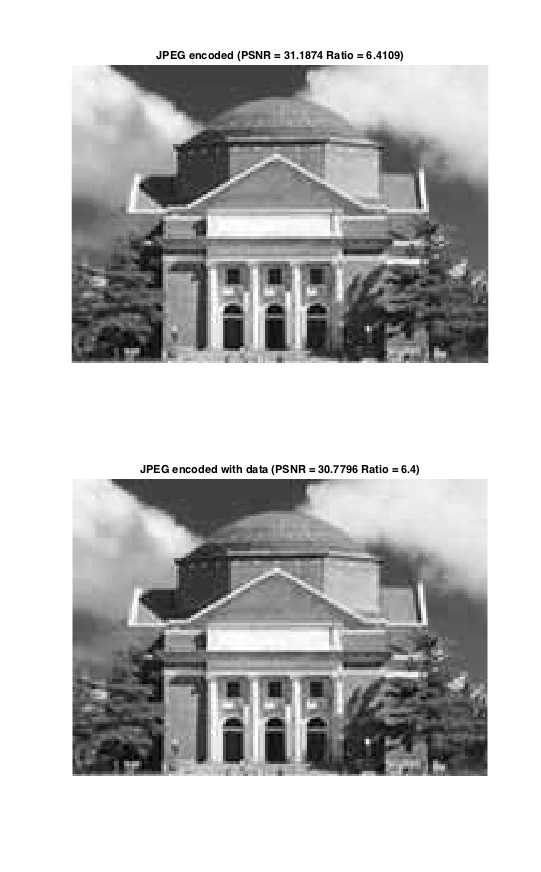
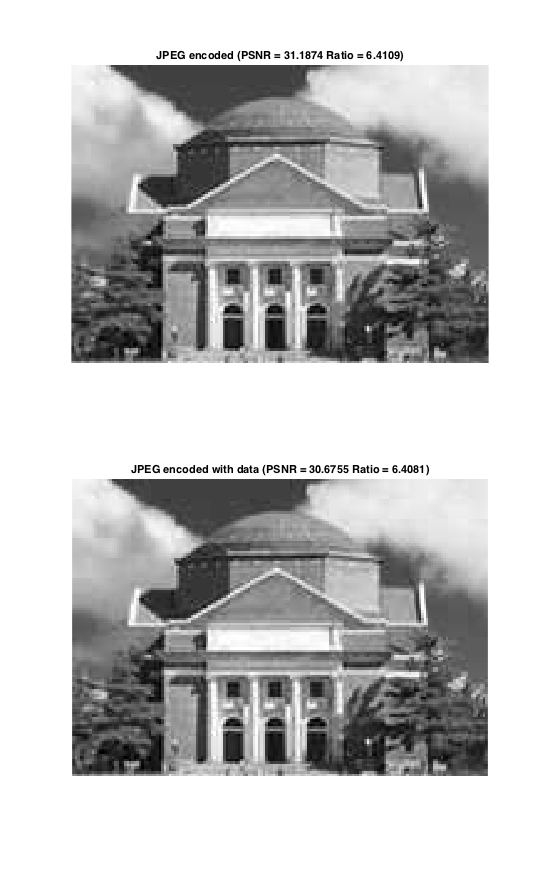
UPPER_BOUND: 6=>4

diff --git a/src/task3/inv_preprocess_large_dct_coeff.m b/src/task3/inv_preprocess_large_dct_coeff.m
@@ -1,8 +1,8 @@
 %% inv_preprocess_some_dct_coeff: Inverse the preprocess
 function [img, bits] = inv_preprocess_some_dct_coeff(pre_out, QTAB, ...
                                                      height, width)
-    UPPER_BOUND = 6;
-    LOWER_BOUND = -UPPER_BOUND + 1;
+    UPPER_BOUND = 4;
+    LOWER_BOUND = -UPPER_BOUND - 1;
 
     img = zeros(ceil([height width] / 8) * 8);
     bits = [];

diff --git a/src/task3/preprocess_large_dct_coeff.m b/src/task3/preprocess_large_dct_coeff.m
@@ -1,7 +1,7 @@
 %% preprocess_some_dct_coeff: Block splitting, DCT & quantization
 function out = preprocess_some_dct_coeff(img, bits, QTAB)
-    UPPER_BOUND = 6;
-    LOWER_BOUND = -UPPER_BOUND + 1;
+    UPPER_BOUND = 4;
+    LOWER_BOUND = -UPPER_BOUND - 1;
 
     img = double(img) - 128;  % convert to double for matrix ops later.
 

diff --git a/report/report.md b/report/report.md
@@ -1203,9 +1203,9 @@ index 242e3ea..327d96c 100644
 1. 设置一个正偶数上界 `UPPER_BOUND`；
 2. 用信息位替换掉这样的 DCT 系数：其大于等于 `UPPER_BOUND`，或小于等于 `-UPPER_BOUND + 1`。
 
-我们的设计思路是，对于那些已经较大的 DCT 系数，改变其最低位并不会造成太多视觉上的影响。
+我们的设计思路是，对于那些已经较大的 DCT 系数，改变其最低位并不会造成太多视觉上的影响。其中，上界选取为偶数，下界取为奇数是为了保证用信息位替换后，原本在范围内的点仍然处于范围内。
 
-其中，上界选取为偶数，下界取为奇数是为了保证用信息位替换后，原本在范围内的点仍然处于范围内。
+这里我们选取 `UPPER_BOUND = 4`，是因为经过试验，这个上界即能隐藏较多的信息，同时也能保证较好的图像质量。同时，由于 Category 3 是从 4 开始的，这样选取也能减少 Category 在隐藏之后增加的 DCT 系数的比例，从而避免了压缩率上的损失。
 
 具体代码与 3.2b 相比变化如下：
 
@@ -1218,8 +1218,8 @@ index 0bebf30..a899509 100644
  %% preprocess_some_dct_coeff: Block splitting, DCT & quantization
  function out = preprocess_some_dct_coeff(img, bits, QTAB)
 -    MAX_SLOT = 15;
-+    UPPER_BOUND = 6;
-+    LOWER_BOUND = -UPPER_BOUND + 1;
++    UPPER_BOUND = 4;
++    LOWER_BOUND = -UPPER_BOUND - 1;
  
      img = double(img) - 128;  % convert to double for matrix ops later.
  
@@ -1249,8 +1249,8 @@ index 242e3ea..090b0f9 100644
  function [img, bits] = inv_preprocess_some_dct_coeff(pre_out, QTAB, ...
                                                       height, width)
 -    MAX_SLOT = 15;
-+    UPPER_BOUND = 6;
-+    LOWER_BOUND = -UPPER_BOUND + 1;
++    UPPER_BOUND = 4;
++    LOWER_BOUND = -UPPER_BOUND - 1;
  
      img = zeros(ceil([height width] / 8) * 8);
 -    bits = zeros(numel(img) / 64 * MAX_SLOT, 1);
@@ -1278,7 +1278,7 @@ index 242e3ea..090b0f9 100644
 [recovered, recovered_data] = ...
     test_hide(hall_gray, data, @preprocess_large_dct_coeff, ...
                                @inv_preprocess_large_dct_coeff)
-% Warning: 3396 bit(s) not encoded 
+% Warning: 3181 bit(s) not encoded 
 % > In preprocess_large_dct_coeff at 37
 %   In jpeg_hide_encode at 8
 %   In test_hide at 5 
@@ -1295,11 +1295,12 @@ index 242e3ea..090b0f9 100644
 % recovered_data =
 %
 % Here's to the crazy ones. The misfits. The rebels. The troublemakers. ...
-% The round pegs in the square holes. The ones who see t
+% The round pegs in the square holes. The ones who see things differently. ...
+% They're 
 ```
 
 ![Hide large DCT coefficient](hide_large_dct_coeff.png)
 
-可以看到，我们的算法在 PSNR(31.19 => 30.78) 与压缩率 (6.41 => 6.40) 与直接 JPEG 编码几乎无差异的情况下隐藏的信息是 3.2a 算法的近三倍。同时，从肉眼上也很难发现上下两图有什么差异。这说明，我们确实达到了我们所希望的目标。
+可以看到，我们的算法在 PSNR(31.19 => 30.68) 与压缩率 (6.41 => 6.41) 与直接 JPEG 编码几乎无差异的情况下隐藏的信息是 3.2a 算法的四倍多（35 => 151 Byte）。同时，从肉眼上也很难发现上下两图有什么差异。这说明，我们确实达到了我们所希望的目标。
 
 ## 第四章 人脸识别
